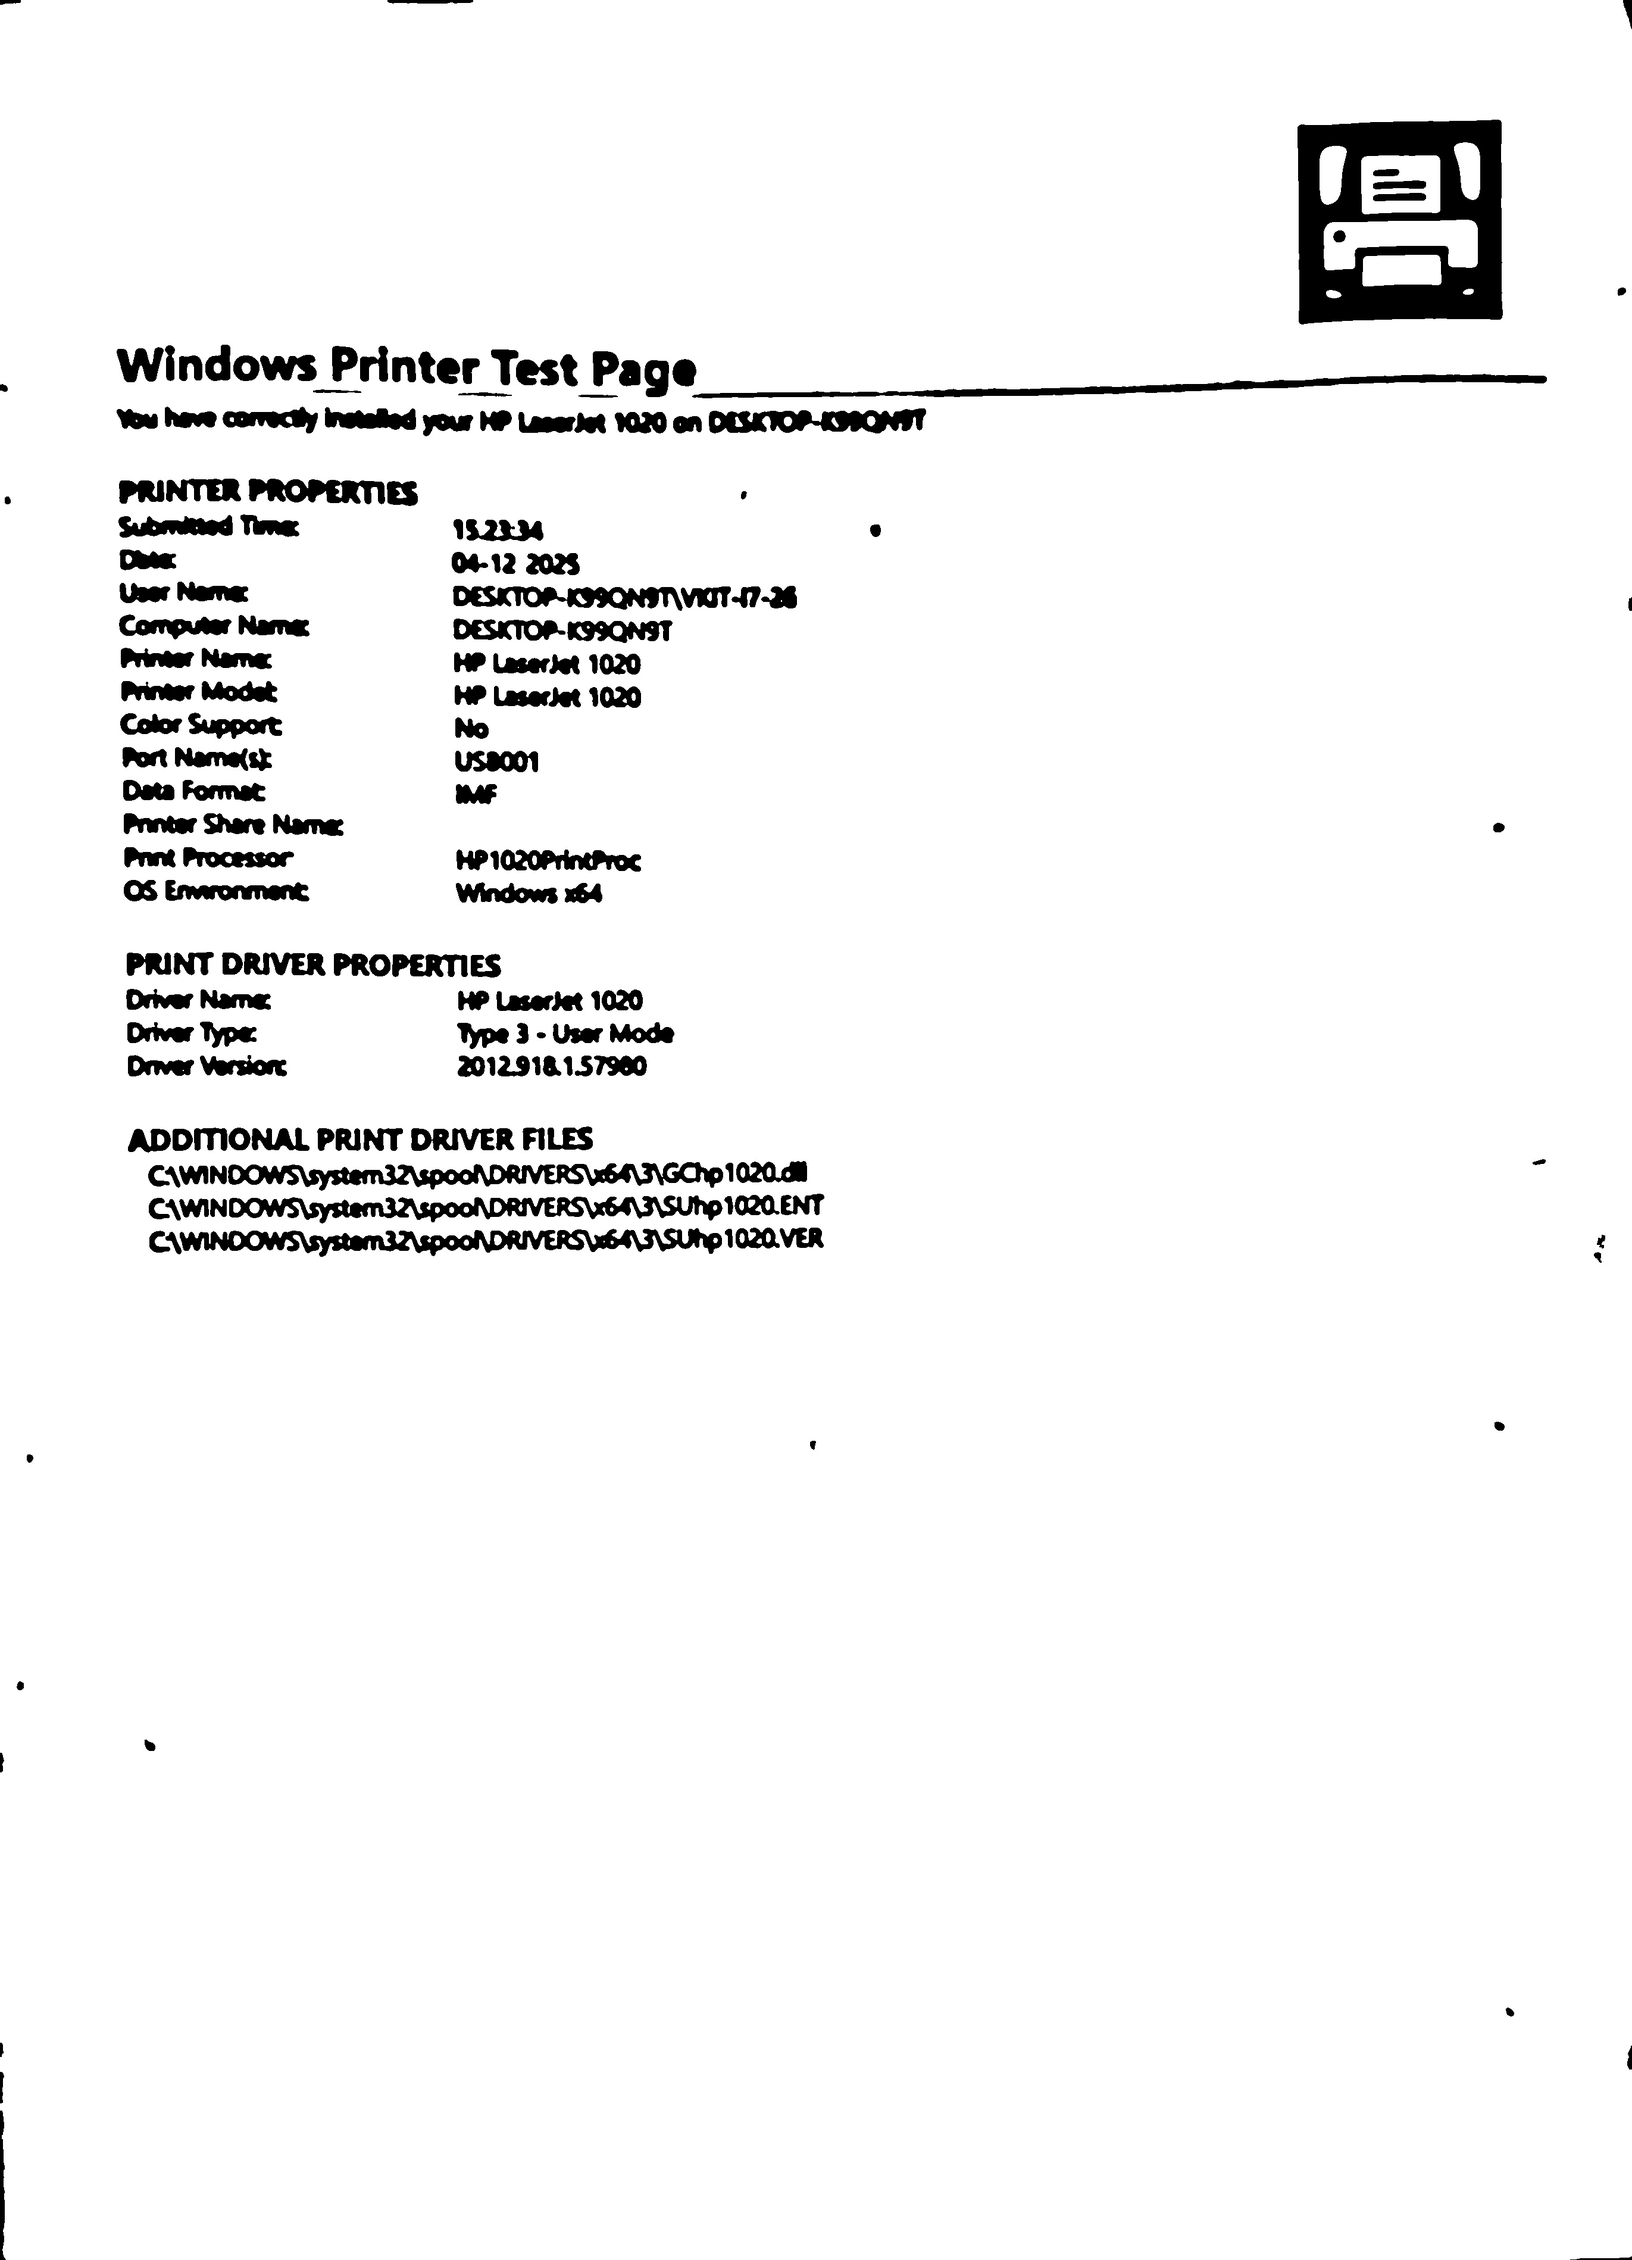
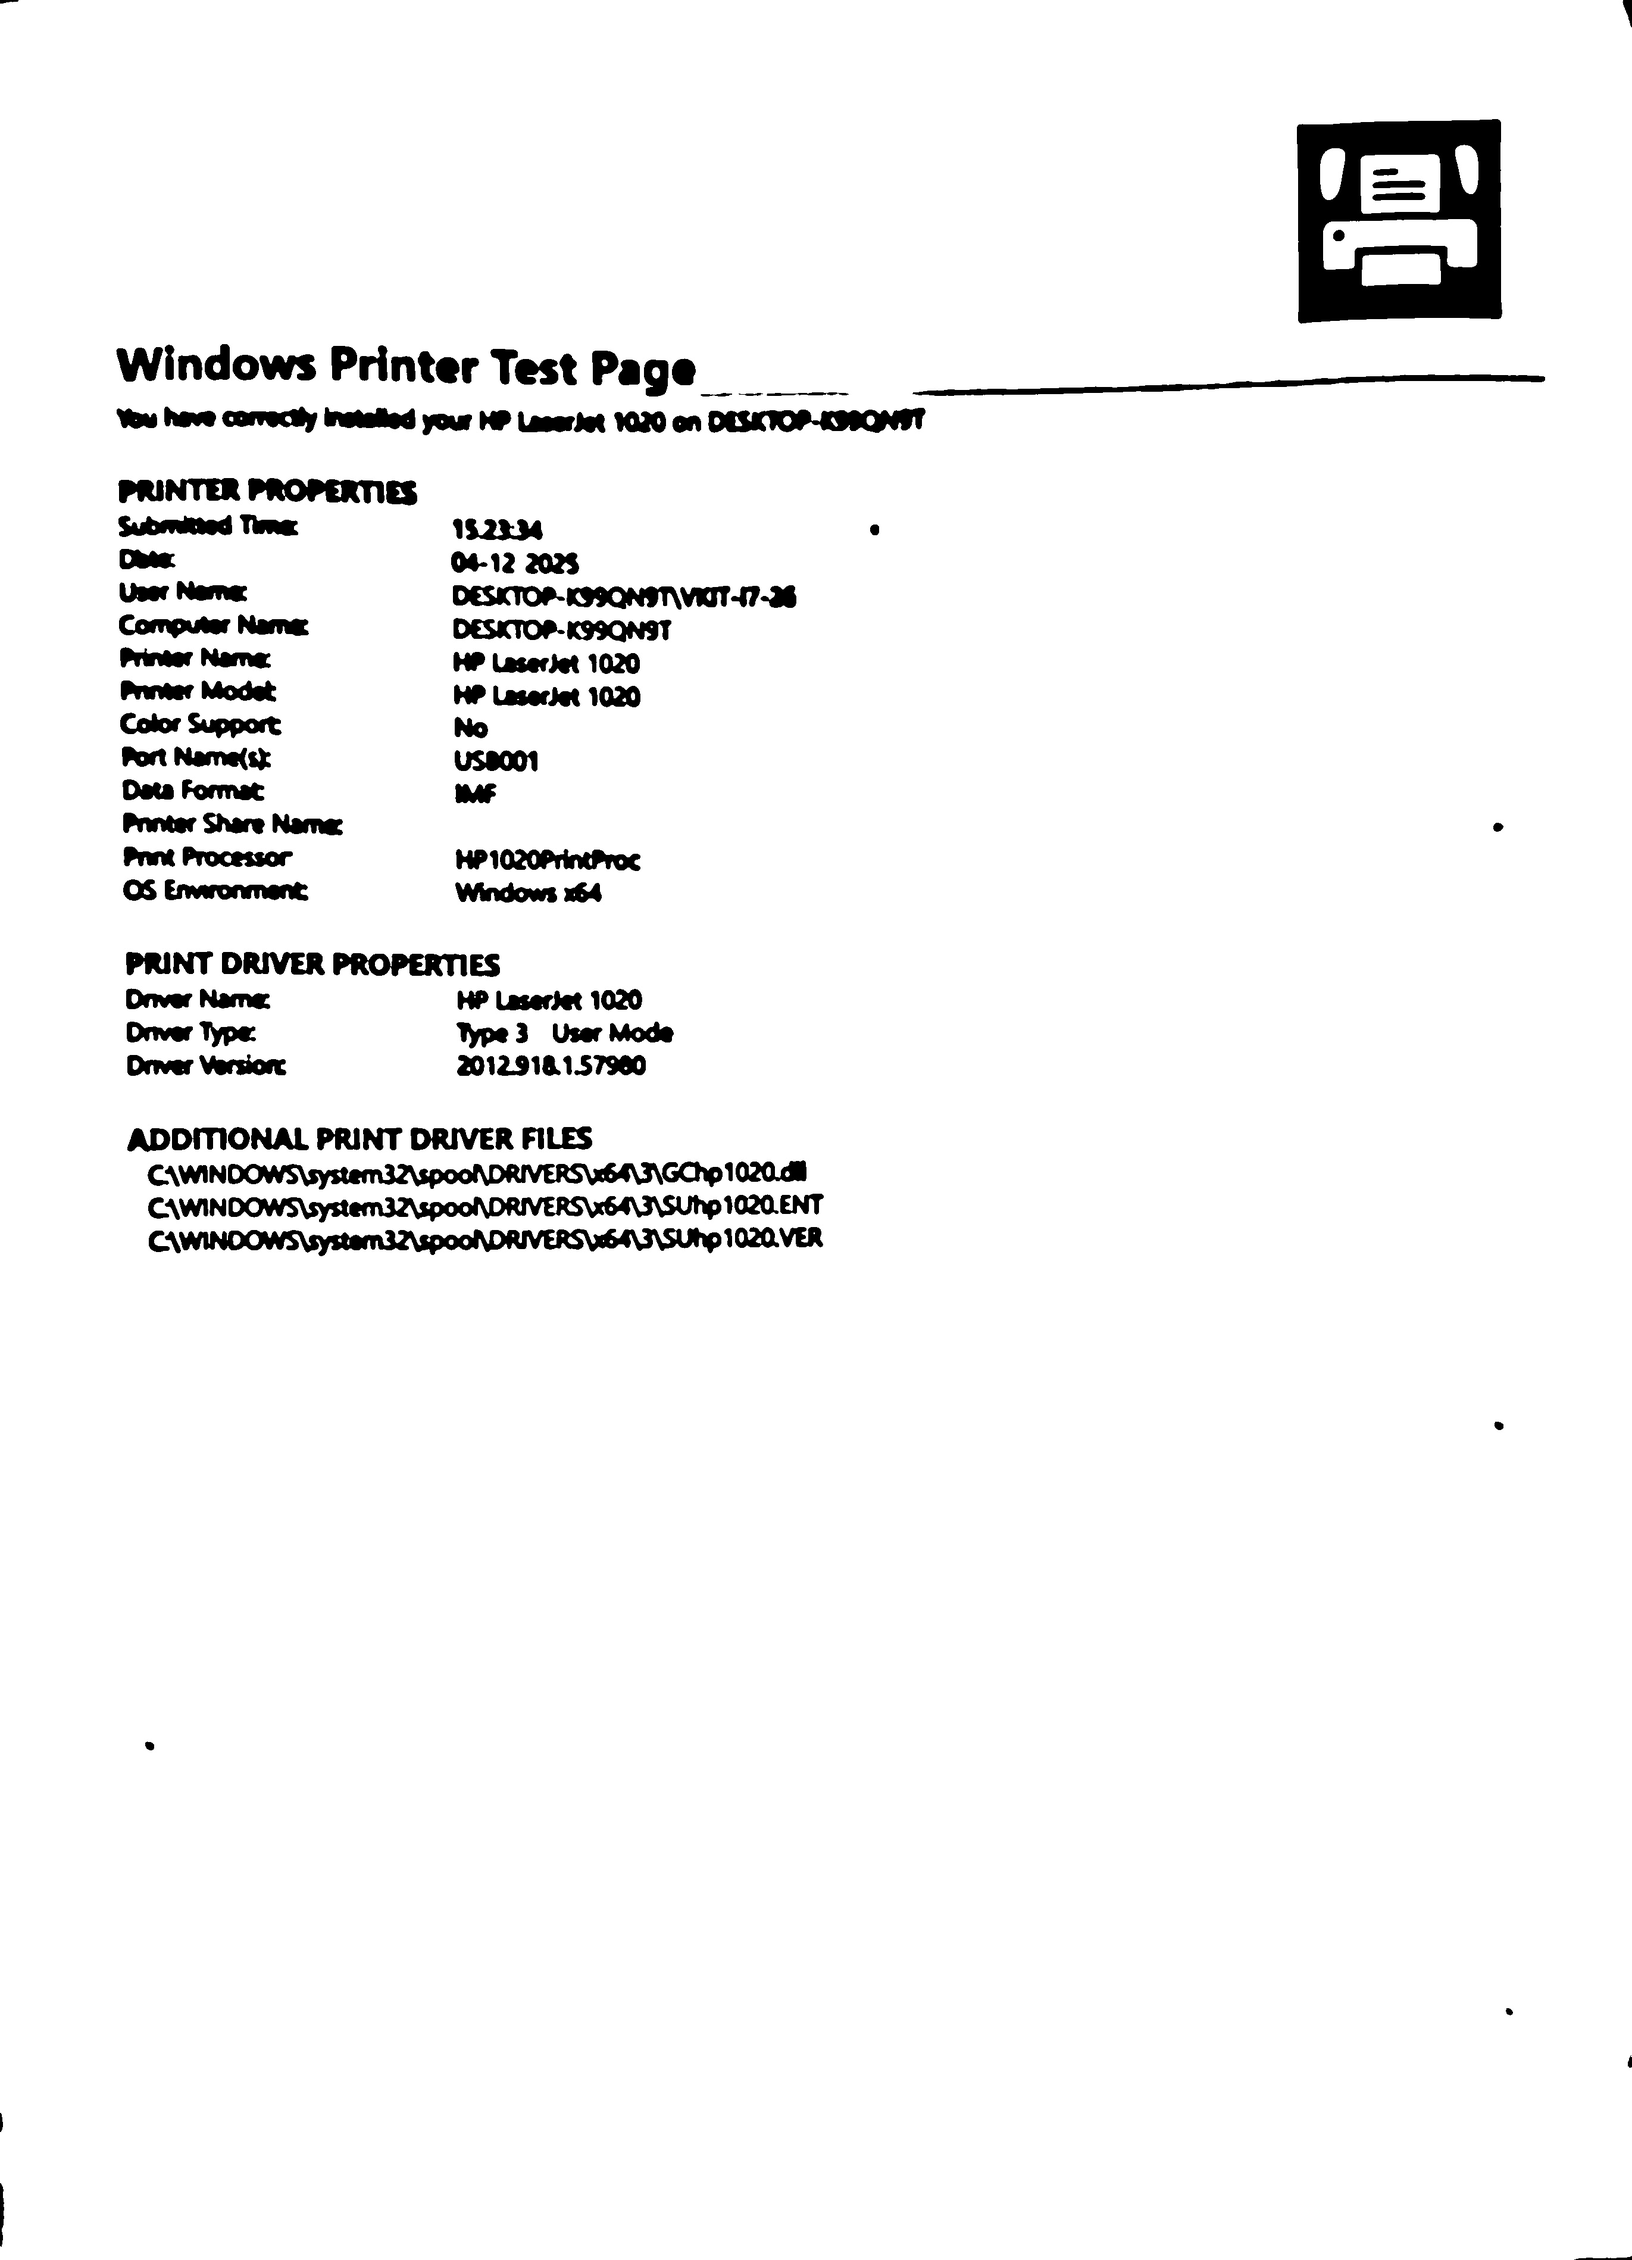
Fix thick text: increase adaptive threshold C value, remove MORPH_CLOSE

diff --git a/backend/app.py b/backend/app.py
@@ -1281,8 +1281,8 @@ def enhance_document_quality(gray_image, mode='document'):
         p2, p98 = np.percentile(gray_image, (2, 98))
         stretched = np.clip((gray_image - p2) * (255.0 / max(p98 - p2, 1)), 0, 255).astype(np.uint8)
         
-        # Adaptive threshold with large block size for clean result
-        block_size = max(h, w) // 25
+        # Adaptive threshold - larger block & higher C for thinner text
+        block_size = max(h, w) // 20  # Larger block = smoother
         block_size = block_size if block_size % 2 == 1 else block_size + 1
         block_size = max(block_size, 51)
         block_size = min(block_size, 251)
@@ -1291,13 +1291,12 @@ def enhance_document_quality(gray_image, mode='document'):
             stretched, 255,
             cv2.ADAPTIVE_THRESH_GAUSSIAN_C,
             cv2.THRESH_BINARY,
-            block_size, 15  # Higher C = more white background
+            block_size, 25  # Higher C (25) = thinner text
         )
         
-        # Morphological cleanup
+        # Only OPEN to remove noise - NO CLOSE (close makes text thicker!)
         kernel_small = np.ones((2, 2), np.uint8)
-        cleaned = cv2.morphologyEx(binary, cv2.MORPH_CLOSE, kernel_small)  # Close small holes
-        cleaned = cv2.morphologyEx(cleaned, cv2.MORPH_OPEN, kernel_small)   # Remove small specks
+        cleaned = cv2.morphologyEx(binary, cv2.MORPH_OPEN, kernel_small)
         
         # Remove small connected components (noise specks)
         inverted = cv2.bitwise_not(cleaned)

diff --git a/backend/test_app_standalone.py b/backend/test_app_standalone.py
@@ -151,21 +151,22 @@ def enhance_document_quality(gray_image, mode='document'):
         p2, p98 = np.percentile(gray_image, (2, 98))
         stretched = np.clip((gray_image - p2) * (255.0 / max(p98 - p2, 1)), 0, 255).astype(np.uint8)
         
-        block_size = max(h, w) // 25
+        block_size = max(h, w) // 20
         block_size = block_size if block_size % 2 == 1 else block_size + 1
         block_size = max(block_size, 51)
         block_size = min(block_size, 251)
         
+        # Higher C (25) = thinner text
         binary = cv2.adaptiveThreshold(
             stretched, 255,
             cv2.ADAPTIVE_THRESH_GAUSSIAN_C,
             cv2.THRESH_BINARY,
-            block_size, 15
+            block_size, 25
         )
         
+        # Only OPEN - no CLOSE (close makes text fat)
         kernel_small = np.ones((2, 2), np.uint8)
-        cleaned = cv2.morphologyEx(binary, cv2.MORPH_CLOSE, kernel_small)
-        cleaned = cv2.morphologyEx(cleaned, cv2.MORPH_OPEN, kernel_small)
+        cleaned = cv2.morphologyEx(binary, cv2.MORPH_OPEN, kernel_small)
         
         # Remove small noise components
         inverted = cv2.bitwise_not(cleaned)
